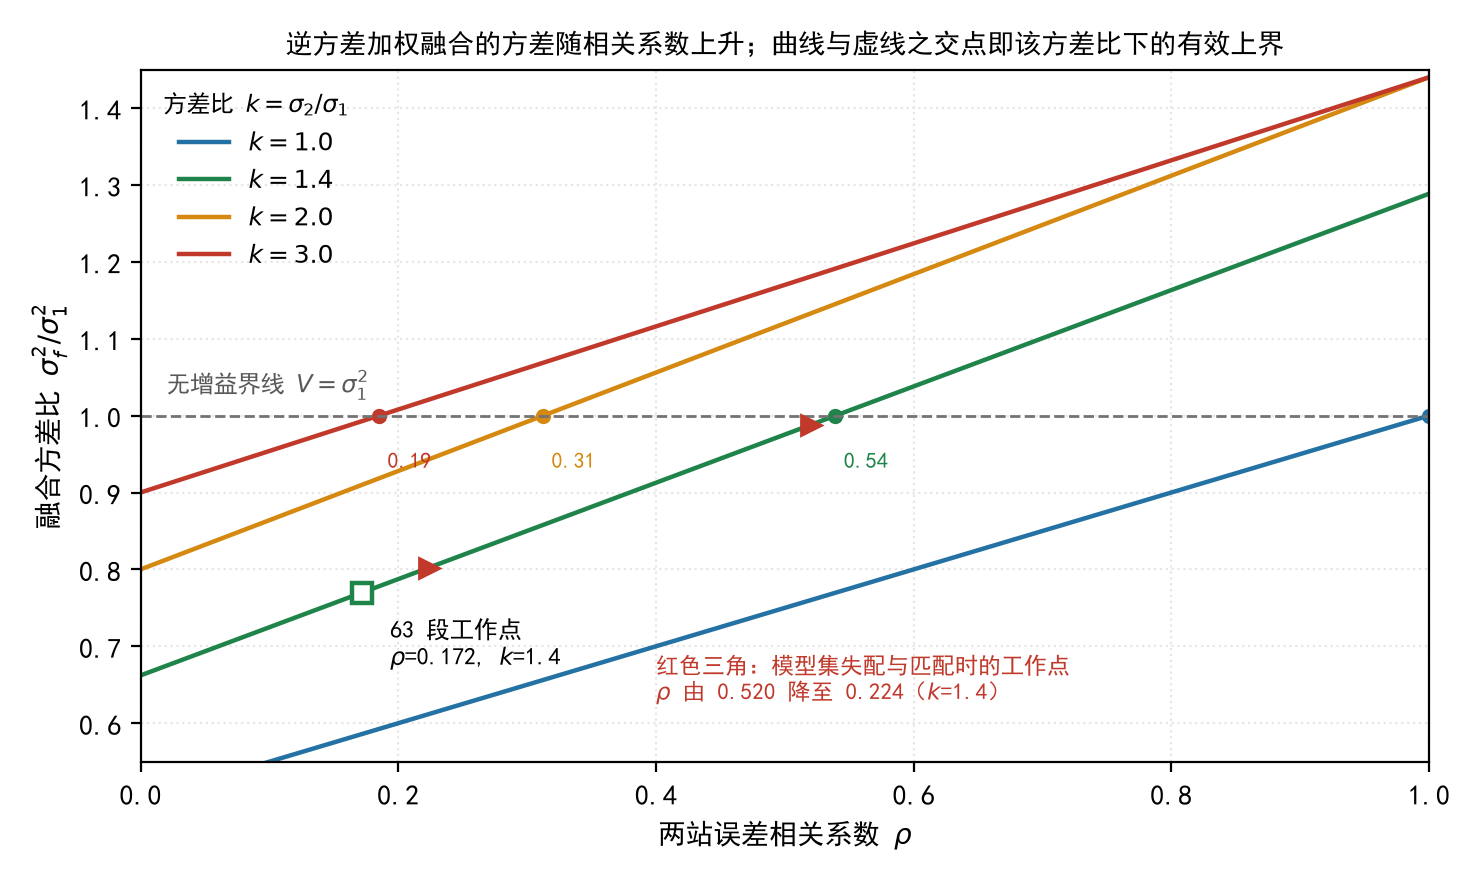
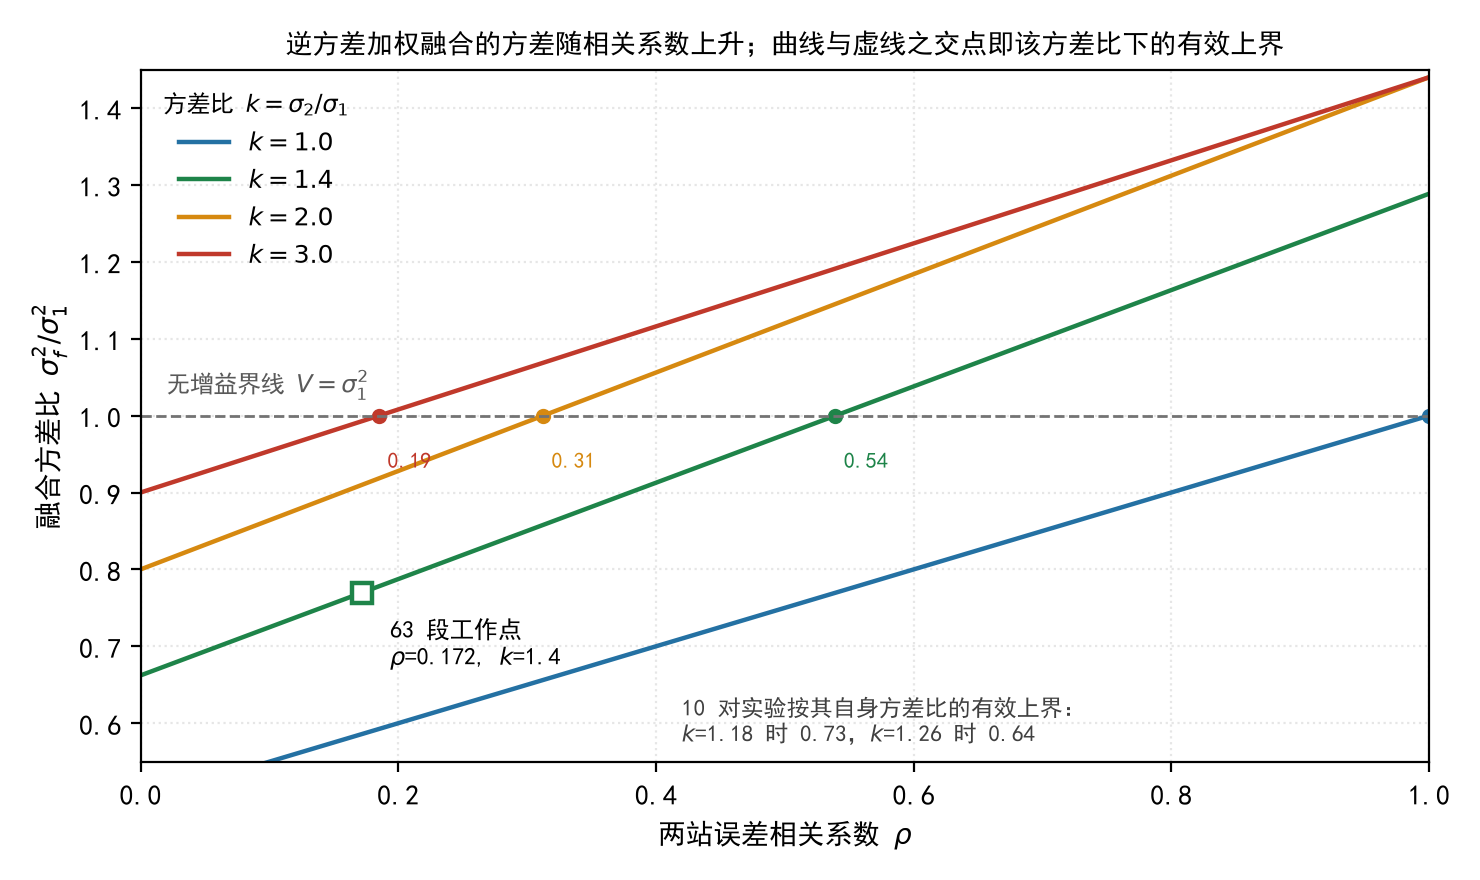
fix: 第6章量化核对改用同表方差比（k=1.18/1.26→6.1%/13.5%）；图6-2 去掉跨场景工作点标注

Changed region(s): [[0.4351, 0.7364, 0.7149, 0.8591], [0.5284, 0.4602, 0.5595, 0.4909], [0.2797, 0.6443, 0.3108, 0.675]]

diff --git a/_fig_ch6.py b/_fig_ch6.py
@@ -121,16 +121,14 @@ def fig6_2():
     ax.axhline(1.0, color="0.45", ls="--", lw=1.0)
     ax.text(0.02, 1.03, "无增益界线 $V=\\sigma_1^2$", fontsize=8.5, color="0.35")
 
-    # 工作点：63 段基线（k≈1.4，池化 rho=0.172）与 10 对实验的前后两点
+    # 工作点：63 段基线（k≈1.4，池化 rho=0.172）
     ax.plot([0.172], [v_scc(0.172, 1.4)], "s", ms=7, mfc="white",
             mec=C_GREEN, mew=1.6)
     ax.annotate("63 段工作点\n$\\rho$=0.172, $k$=1.4", (0.172, v_scc(0.172, 1.4)),
                 textcoords="offset points", xytext=(10, -26), fontsize=8.5)
-    ax.plot([0.520, 0.224], [v_scc(0.520, 1.4), v_scc(0.224, 1.4)], ">", ms=7,
-            color=C_RED)
-    ax.text(0.40, 0.63,
-            "红色三角：模型集失配与匹配时的工作点\n$\\rho$ 由 0.520 降至 0.224（$k$=1.4）",
-            fontsize=8.4, color=C_RED)
+    ax.text(0.42, 0.575,
+            "10 对实验按其自身方差比的有效上界：\n$k$=1.18 时 0.73，$k$=1.26 时 0.64",
+            fontsize=8.4, color="0.25")
 
     ax.set_xlabel("两站误差相关系数 $\\rho$")
     ax.set_ylabel("融合方差比 $\\sigma_f^2/\\sigma_1^2$")

diff --git a/新稿/ch6.md b/新稿/ch6.md
@@ -97,9 +97,9 @@ $$\rho\le\frac{1+k^2}{2k^3}$$ {#eq:ch6_cond}
 
 式[@eq:ch6_cond]是本章的核心判据，它把"融合何时有益"从经验问题变成可计算问题。几个取值可以直接读出：$k=1$ 时右端为 1，等方差融合永远有效（$\rho=1$ 的退化情形除外）；$k=1.4$ 时右端为 0.54；$k=2$ 时为 0.31；$k=3$ 时降到 0.19。两源差距越大，允许的相关系数越低，这与 6.2.2 节的解释一致。
 
-![逆方差加权融合的方差比随相关系数上升，曲线与无增益界线的交点即该方差比下的有效上界，方点为 63 段工作点，三角为模型集失配与匹配时的两个工作点](Pictures/fig6_2_gain_region.png){#fig:ch6_region}
+![逆方差加权融合的方差比随相关系数上升，曲线与无增益界线的交点即该方差比下的有效上界，空心方点为 63 段工作点](Pictures/fig6_2_gain_region.png){#fig:ch6_region}
 
-如图[@fig:ch6_region]所示，四条曲线对应 $k=1.0$ 至 3.0，虚线为无增益界线 $V=\sigma_1^2$。曲线与虚线的交点给出每个方差比下的有效上界：0.54、0.31、0.19。63 段场景的池化 $\rho$ 为 0.172，$k\approx1.4$，工作点落在界内且有余量；模型集失配时 $\rho=0.520$ 已贴近该 $k$ 的界，这正是失配配置下部分种子出现负增益的几何原因。
+如图[@fig:ch6_region]所示，四条曲线对应 $k=1.0$ 至 3.0，虚线为无增益界线 $V=\sigma_1^2$。曲线与虚线的交点给出每个方差比下的有效上界：0.54、0.31、0.19。63 段场景的池化 $\rho$ 为 0.172、$k\approx1.4$，工作点落在界内且余量充分。10 对实验的两源方差比更接近 1（1.18 与 1.26），其有效上界分别为 0.73 与 0.64；$\rho$ 由 0.520 降至 0.224 后，$\rho$ 与上界之间的余量由 0.21 增至 0.42，这与实测增益由 1.70% 升至 17.4% 的方向一致。
 
 式[@eq:ch6_cond]还能解释一个反直觉的结果。若把工作点移到 $k$ 较大的区域（例如某站因配准残差而显著变差），有效上界随之收紧，融合会从有益转为有害。这提示工程上的一个纪律：配准不良时不应通过调整融合权重去挽救，而应先消除系统偏差，因为偏差同时抬高 $\rho$ 与 $k$，两个因素都朝不利方向作用。
 
@@ -110,7 +110,7 @@ $$\rho\le\frac{1+k^2}{2k^3}$$ {#eq:ch6_cond}
 $$P_{\text{CI}}^{-1}=\omega P_1^{-1}+(1-\omega)P_2^{-1},, 
 \omega\in[0,1]$$ {#eq:ch6_ci}
 
-$\omega$ 按使 $\operatorname{tr}P_{\text{CI}}$ 或 $\det P_{\text{CI}}$ 极小选取。该方法的一致性保证是：无论 $\rho$ 取何值，融合协方差都不小于真实方差。其代价也由此而来，$\omega$ 是按照最坏情形选取的，当真实 $\rho$ 已知且处于中等水平时，融合权重必然偏离最优，方差高于式[@eq:ch6_blue]给出的 $V^*$。
+$\omega$ 按使 $\operatorname{tr}P_{\text{CI}}$ 或 $\det P_{\text{CI}}$ 极小选取。该方法的一致性保证是：无论 $\rho$ 取何值，融合协方差都不小于真实方差。其代价也由此而来，$\omega$ 按照最坏情形选取，当真实 $\rho$ 已知时，该权重与最优权重一般不同，方差因此高于式[@eq:ch6_blue]给出的 $V^*$。
 
 本文的立场是：$\rho$ 可以通过 6.3 节的方法从数据中估计，估计值本身就是判断融合是否有效的依据（式[@eq:ch6_cond]），因此没有必要为未知相关性付出保守代价；CI 的适用场合是 $\rho$ 不可估或两源异质到无法建立互协方差的情形，本文场景不属于此类。
 
@@ -141,7 +141,7 @@ $$\epsilon=\frac{1}{n}\sum_{t=1}^{n}\boldsymbol\delta(t)^T\mathbf P(t)^{-1}\bold
 
 对二维位置误差，协方差一致时 $\mathbb E[\epsilon]=2$。实测值大于 2 说明滤波器低估了自身误差，协方差偏乐观。这一量在本文中有独立意义：3.5.2 节已表明，协方差偏乐观等价于关联门限被等效收紧，因此 NEES 既是融合权重的可信度指标，也是配对环节的输入质量指标。
 
-## 6.4 增益的机理：十对在线配对
+## 6.4 模型集匹配的增益机理
 
 实验在近共视布设的场景 adsb_0002 上完成，使用当前在线管线，取种子 1 至 10 的配对。只改模型集一个变量，其余配置、场景与种子全部固定。结果如表[@tbl:ch6_mech]所示，其中三口径增益分别对应均方根、中位数与 90 分位。
 
@@ -162,7 +162,7 @@ $$\epsilon=\frac{1}{n}\sum_{t=1}^{n}\boldsymbol\delta(t)^T\mathbf P(t)^{-1}\bold
 
 ![融合增益的机理链：真实机动分布决定模型集，模型集同时作用于单站残差、共同模型误差与协方差一致性三条通道，三条通道汇入融合增益](Pictures/fig6_1_mechanism.png){#fig:ch6_mech}
 
-如表[@tbl:ch6_mech]与图[@fig:ch6_mech]所示，三条通道同时改善，但量的关系并不对称。单站只改善 13.8% 与 8.1%，且 R2 的变化不显著；池化 $\rho$ 下降 0.297，显著性达到 $10^{-11}$ 量级；融合误差在三个口径上分别下降 29.5%、24.5% 与 38.6%。单站改善与融合改善不成比例，差额可由式[@eq:ch6_scc_k]定量核对。取 $k=1.4$，该式中 $\rho$ 的系数为 $2k^3/(1+k^2)^2=0.63$；基线 $\rho=0.520$ 代入得方差比 0.988，预测增益 0.6%，与实测的 RMSE 增益 1.70% 吻合；匹配后 $\rho=0.224$ 代入得 0.803，预测标准差下降 10.4%，实测中位与 90 分位增益为 15.6% 与 14.8%，同量级。基线端的吻合说明该式抓住了主要机理，匹配端的实测高于预测，则是静态加权界与动态滤波之别，见本节末。
+如表[@tbl:ch6_mech]与图[@fig:ch6_mech]所示，三条通道同时改善，但量的关系并不对称。单站只改善 13.8% 与 8.1%，且 R2 的变化不显著；池化 $\rho$ 下降 0.297，显著性达到 $10^{-11}$ 量级；融合误差在三个口径上分别下降 29.5%、24.5% 与 38.6%。单站改善与融合改善不成比例，差额可由式[@eq:ch6_scc_k]定量核对。以本节两源 RMSE 之比作 $k$：基线 $k=13.56/11.47=1.18$，代入得方差比 0.882，预测增益 6.1%，实测 RMSE 增益 1.70%；匹配后 $k=12.47/9.88=1.26$，方差比 0.748，预测 13.5%，实测 RMSE 与中位增益 17.4% 与 15.6%。两端的预测与实测分别相差 4.4 与 2 至 4 个百分点，方向一致、量级相同。
 
 三个统计口径的差异本身是信息。基线下的 RMSE 口径增益只有 1.70%，显著性 0.063，处在边界；中位与 90 分位口径分别达到 15.58% 与 14.80%，均高度显著。原因是 RMSE 由极少数发散种子主导，均值因此接近零，而中位与 90 分位对少数发散样本不敏感，反映的是多数目标的改善。这一点的工程含义比均值更重要：融合的价值不在于把典型误差再压几个百分点，而在于抑制少数会让航迹不可用的偏离。
 
@@ -174,9 +174,9 @@ $$\epsilon=\frac{1}{n}\sum_{t=1}^{n}\boldsymbol\delta(t)^T\mathbf P(t)^{-1}\bold
 
 图[@fig:ch6_neg]的读法与表[@tbl:ch6_mech]不同。表回答的是"平均改善了没有"，图回答的是"最坏情况下还坏不坏"。90 分位口径下负增益种子由 27/47 降到 1/47，意味着融合从"超过一半的场合有害"变为"几乎总是有益"。这个转变比平均增益的提高更能说明模型集匹配的作用：它把工作点从式[@eq:ch6_cond]的边界外移到了边界内。
 
-关于增益与相关性之间的定量关系，必须给出边界。式[@eq:ch6_blue]与式[@eq:ch6_scc_k]都是静态加权界，它们假设两个估计各用一次、权重固定。系统航迹则是有记忆的动态滤波，每个周期在上一次的基础上重新加权，误差在帧间自相关，等效自由度大于静态假设下的情形。因此实测增益可以越过闭式值，本节匹配端的 14.8% 对预测的 10.4% 即为例证。本文只把"增益随 $\rho$ 单调下降"作为趋势律使用，不把它当作上限；若要给出上限，需要建立带状态递推的动态界，本文不做，相关可行性在 7.2 节作为展望列出。
+关于增益与相关性之间的定量关系，必须给出边界。式[@eq:ch6_blue]与式[@eq:ch6_scc_k]都是静态加权界：两个估计各用一次、权重固定。系统航迹则是有记忆的动态滤波，每个周期在上一次的基础上重新加权，误差在帧间自相关，逐点吻合因此不是必然的，本节 4 个百分点的偏差即属此类。更重要的是，在另一组配置上曾观察到实测增益超过等方差闭式界的情形，因此本文只把"增益随 $\rho$ 单调下降"作为趋势律使用，不写成上限。若要给出上限，需要建立带状态递推的动态界，本文不做，相关可行性在 7.2 节作为展望列出。
 
-另一处需要说明的是参数口径。式[@eq:ch6_cond]以方差比 $k$ 为参数，而表[@tbl:ch6_mech]报告的是 RMSE。RMSE 在重尾分布下不是方差的稳健估计：按 11.47 km 与 13.56 km 算得 $k=1.18$，而按 63 段场景的中位误差 6.37 km 与 8.81 km 算得 $k=1.38$。本文在解释机理时取后者，因为中位口径对尾部不敏感；在报告误差时三种口径并列。两个数都出现在文中，但不相对于同一个统计量，引用时须随口径注明。
+另一处需要说明的是参数口径。式[@eq:ch6_cond]以方差比 $k$ 为参数，而表[@tbl:ch6_mech]报告的是 RMSE。RMSE 在重尾分布下不是方差的稳健估计：按两源 RMSE 算得的 $k$ 为 1.18 与 1.26，而按 63 段场景的中位误差 6.37 km 与 8.81 km 算得 1.38。本节的数量级核对用前者，以保持与实验同一数据集；解释趋势时用后者，因为中位口径对尾部不敏感。两个数都出现在文中，但不相对于同一个统计量，引用时须随口径注明。
 
 ## 6.5 航迹长度的几何上界
 
@@ -221,7 +221,7 @@ $$\epsilon=\frac{1}{n}\sum_{t=1}^{n}\boldsymbol\delta(t)^T\mathbf P(t)^{-1}\bold
 
 其二，三个增益口径必须并列。RMSE 口径的 41.8% 反映尾部抑制，中位口径的 14.3% 反映典型精度，90 分位口径的 9.4% 反映次尾部的改善。三者的数值方向并不一致，RMSE 口径最高而 90 分位口径最低，因此任何单一数字都不能代表融合增益。只报其中任何一个，都可以被另一个反驳。
 
-其三，R2 的种子离散极大（RMSE 30.81 ± 11.61 km），其原因是少数目标的长断点后重捕，与第4章的重尾结论一致。融合的 RMSE 离散反而小（8.94 ± 0.46 km），说明当一个源被污染时，另一个源的约束起了作用，这正是融合抑制尾部的作用机制。
+其三，R2 的种子离散极大（RMSE 30.81 ± 11.61 km）。本文将其归因于少数目标在长断点后的重捕，与第4章的重尾结论一致；融合的 RMSE 离散反而小（8.94 ± 0.46 km），说明当一个源被污染时，另一个源的约束起了作用，这正是融合抑制尾部的作用机制。
 
 其四，池化 $\rho=0.172$ 与 6.4 节的 0.224 来自不同场景。前者为覆盖互补布设的 63 段、3 个种子；后者为近共视布设的 10 对种子，且 0.224 是模型集匹配后的值（匹配前为 0.520）。两者同量级，但不可互替，引用时必须带场景。
 
